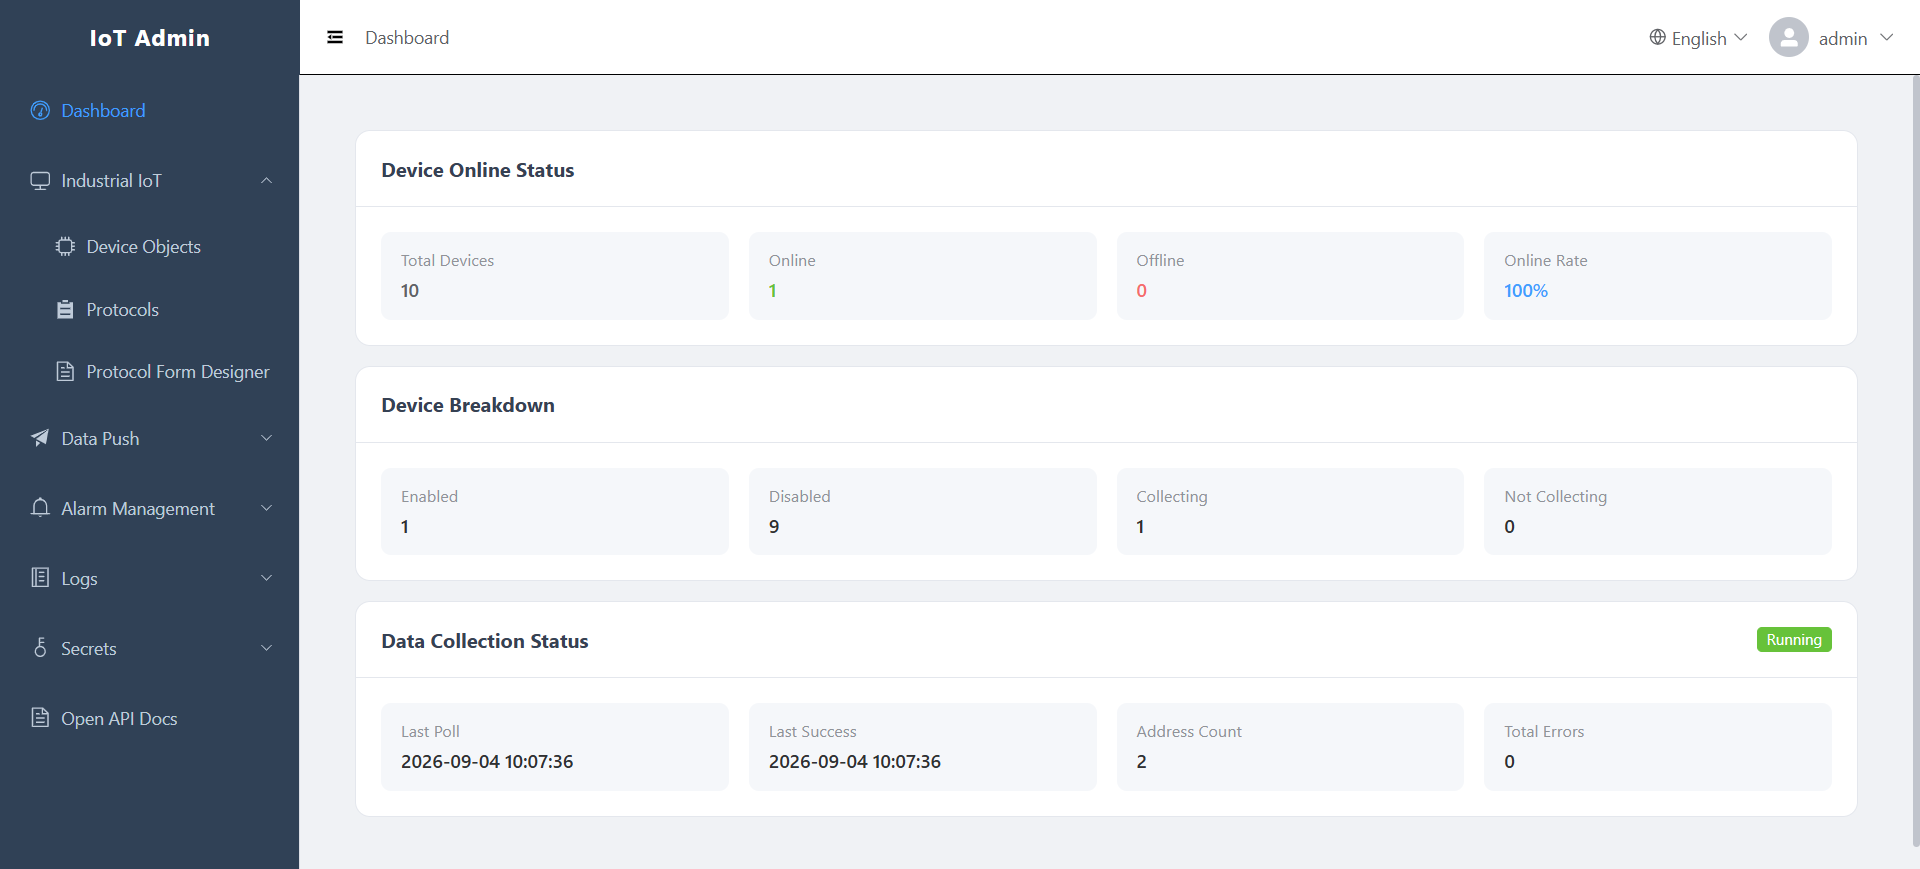
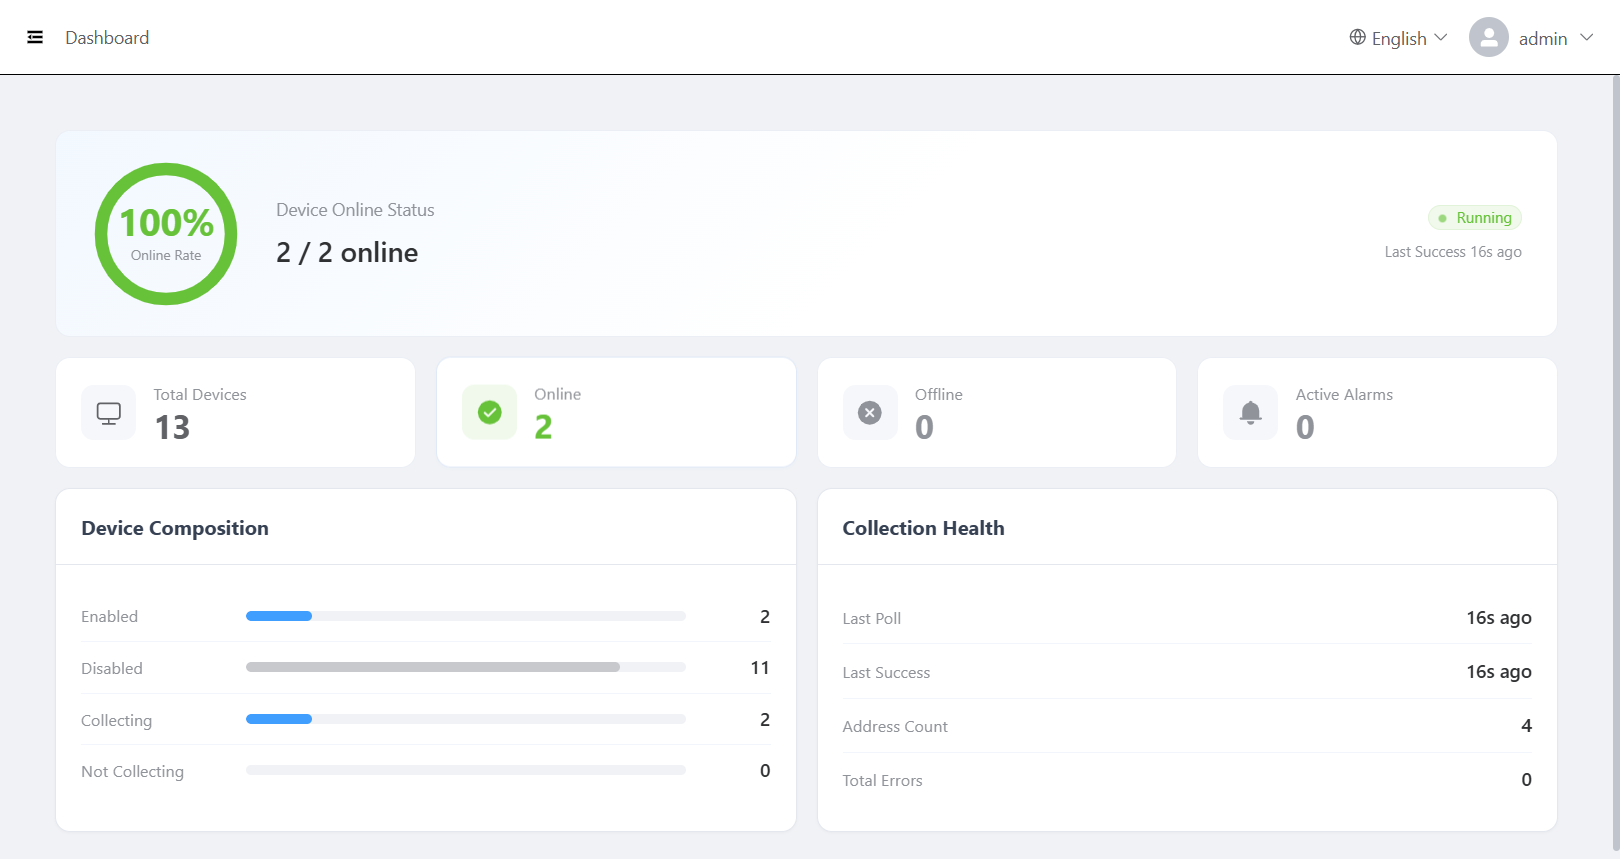
readme: show a clickable dashboard cover instead of an unplayable video tag
The <video> element never played. Markdown has no video syntax, so it is
raw HTML, and both Gitee and GitHub run README HTML through a sanitizer
that only whitelists a handful of tags -- video is not one of them. The
tag was dropped silently and the intro section rendered as blank space.
A relative src would not have rescued it either: even where the tag
survives, the file has to be served from a URL the sanitizer trusts.

An image renders unconditionally on every platform, so the cover is now
a screenshot wrapped in a link to the video file. That is what the
README did before this, with the picture and the video simply being two
different artifacts rather than one broken embed.

Both covers are re-shot against the redesigned dashboard -- the previous
docs/images/dashboard.*.png still showed the three flat label/value
cards that the redesign replaced, so reusing them would have advertised
the UI we just removed.

The [video] block is gone rather than kept as a hidden fallback; it
renders as nothing on Gitee and only helps in a local markdown preview.

diff --git a/README.en.md b/README.en.md
@@ -4,10 +4,13 @@ English | [简体中文](README.md)
 
 **iot-gateway** is a ready-to-run industrial IoT data acquisition gateway: it polls PLCs and industrial devices on a schedule, pushes collected data to downstream channels such as MQTT, TDEngine and InfluxDB, and ships with an embedded web admin console. The whole system is deployed to gateways or industrial PCs as a **single binary** — no external database required.
 
-<!-- Demo video (admin console tour): place the EN-locale demo video under docs/video/ -->
-<video src="docs/video/demo%20video.mp4" width="900" controls muted></video>
+<!-- Admin console tour: a clickable cover in place of <video> -- Gitee/GitHub
+     sanitize the video tag away and leave nothing rendered, while an image
+     renders everywhere. Cover is the redesigned dashboard; it links to the
+     EN-locale demo video under docs/video/ -->
+[![Admin console](docs/images/dashboard.en.png)](docs/video/demo%20video.mp4)
 
-[▶ If the video above does not play, download it here](docs/video/demo%20video.mp4)
+*Click the cover to play the demo video*
 
 
 ## Features

diff --git a/README.md b/README.md
@@ -4,10 +4,12 @@
 
 **iot-gateway** 是一个开箱即用的工业物联网数据采集网关：定时轮询 PLC / 工业设备，将采集数据推送至 MQTT、TDEngine、InfluxDB 等下游通道，并提供内嵌的 Web 管理控制台。整体以 **单二进制** 形式部署到网关设备或工控机，无需外部数据库。
 
-<!-- 演示视频（管理控制台概览）：docs/video/ 下放中文版演示视频 -->
-<video src="docs/video/演示视频.mp4" width="900" controls muted></video>
+<!-- 管理控制台概览：以可点击封面代替 <video> —— Gitee/GitHub 的 Markdown 清洗器
+     会丢弃 video 标签，页面上一片空白；图片则任何平台都能渲染。
+     封面为改版后的大盘截图，点击进入 docs/video/ 下的中文版演示视频 -->
+[![管理控制台概览](docs/images/dashboard.zh.png)](docs/video/演示视频.mp4)
 
-[▶ 若上方视频无法播放，点此下载观看](docs/video/演示视频.mp4)
+*点击封面观看演示视频*
 
 
 ## 功能特性
